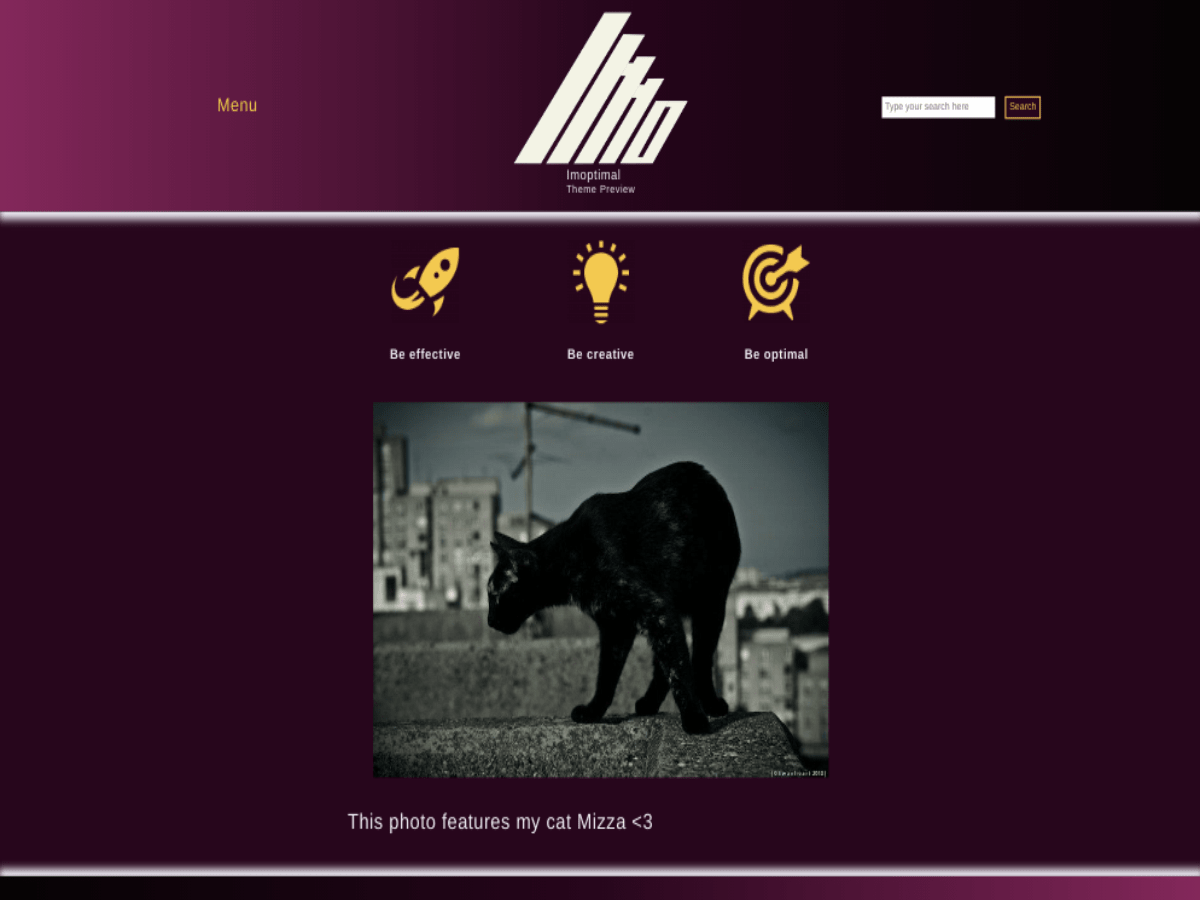
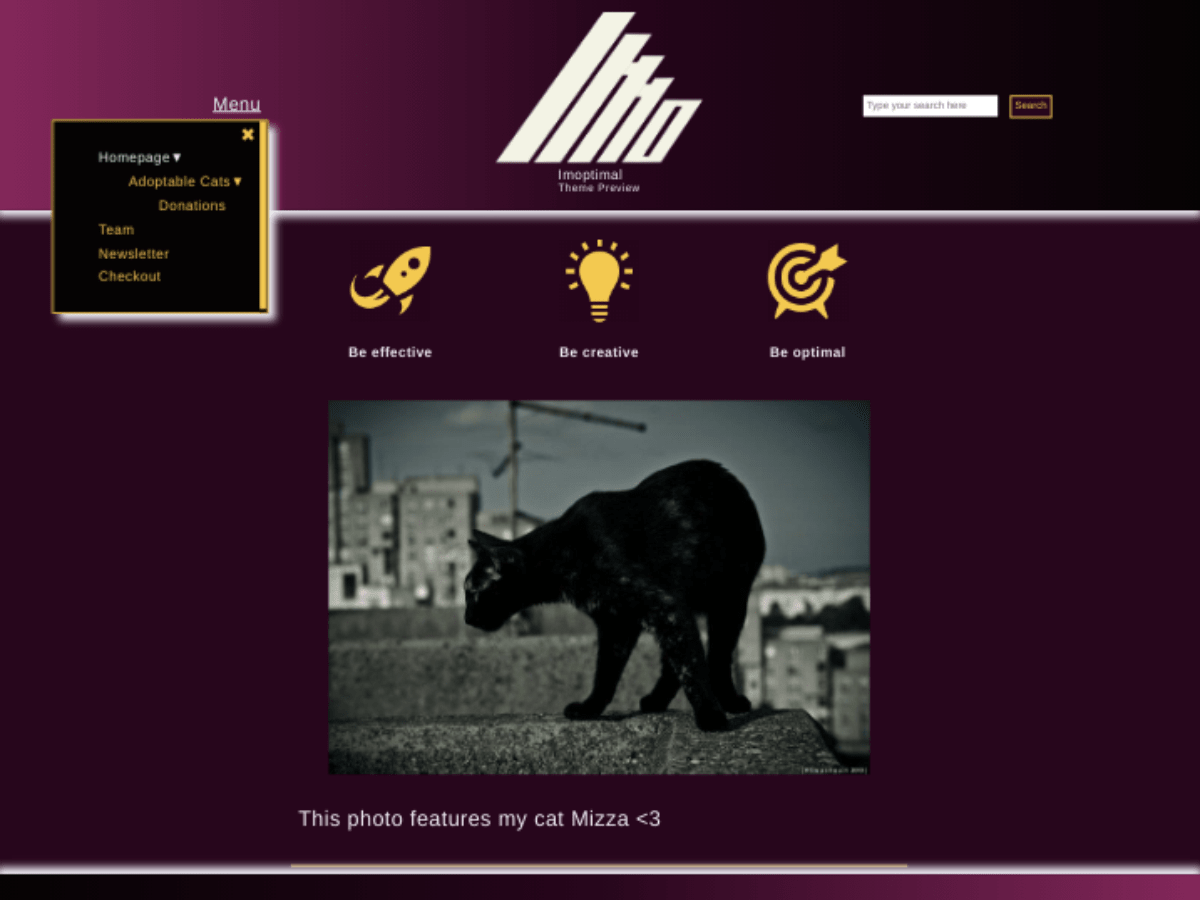
Changed the themes screenshot, to preview the dropdown menu not visible in the preview mode.

diff --git a/style.css b/style.css
@@ -1,10 +1,10 @@
 /*
 Theme Name: Imoptimal
 Theme URI: https://github.com/Imoptimal/imoptimal-theme
-Author: Ivan Maljukanovic
+Author: Ivan Maljukanović @imoptimal
 Author URI: imoptimal.com
 Description: Starter theme, with an option to enable users to build their whole website with widgets (option available inside of admin menu, at Appearance/Customize). Best if used with Pagebuilder by Siteorigin plugin, and its widgets bundle. Intended for technically advanced users that build their own websites or websites for others, as a tool to make this process more efficient. IMPORTANT: CSS knowledge mandatory in order to use this theme to its fullest potential. It provides widget areas in these sections: header, footer, sidebar, homepage content, page content, 404 page, and shop page (if woocommerce plugin is active). All of the mentioned areas are available to the user inside of the Customizer widget area also, except the 404 page widget (which can be edited only through wp-admin widgets area).
-Version: 1.4.0
+Version: 1.4.1
 License: GNU General Public License v3 or later
 License URI: https://www.gnu.org/licenses/gpl-3.0.en.html
 Text Domain: imoptimal
